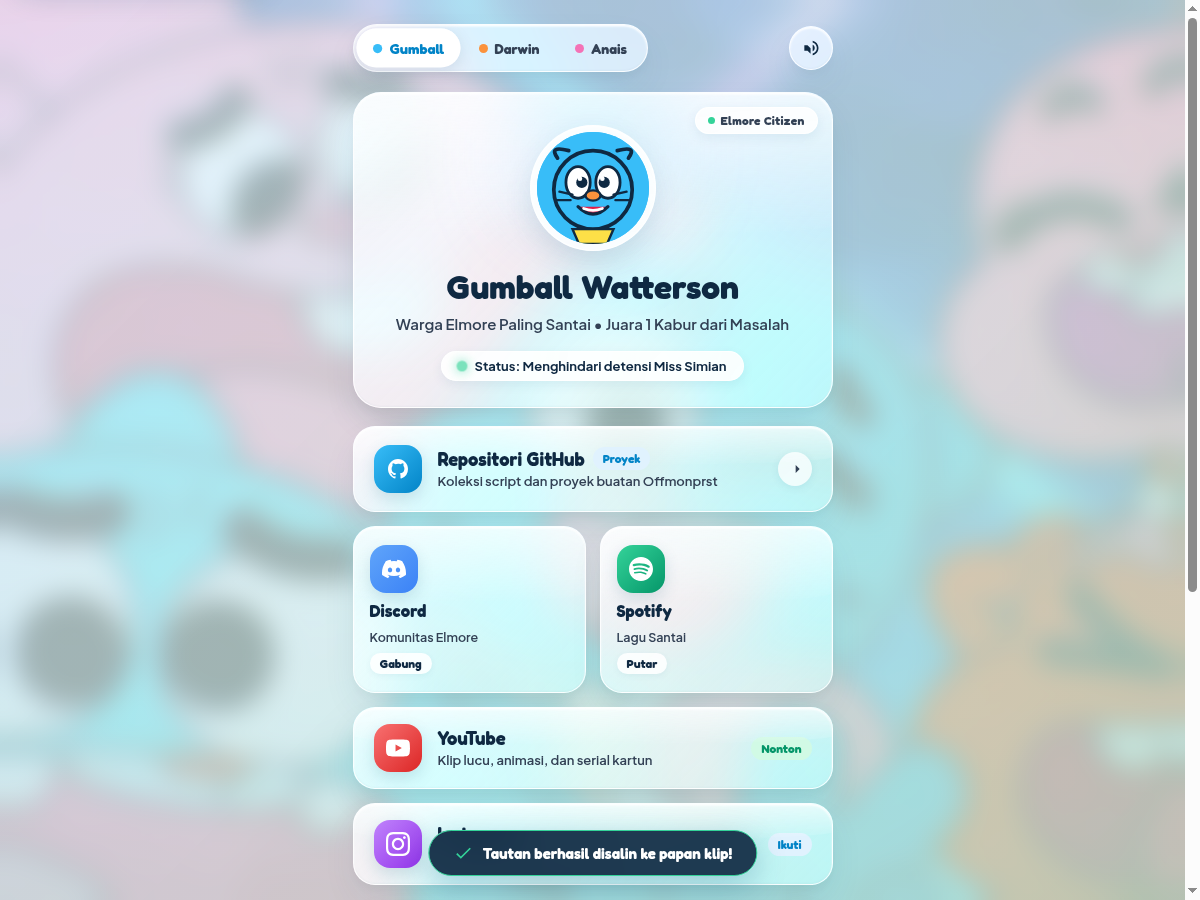
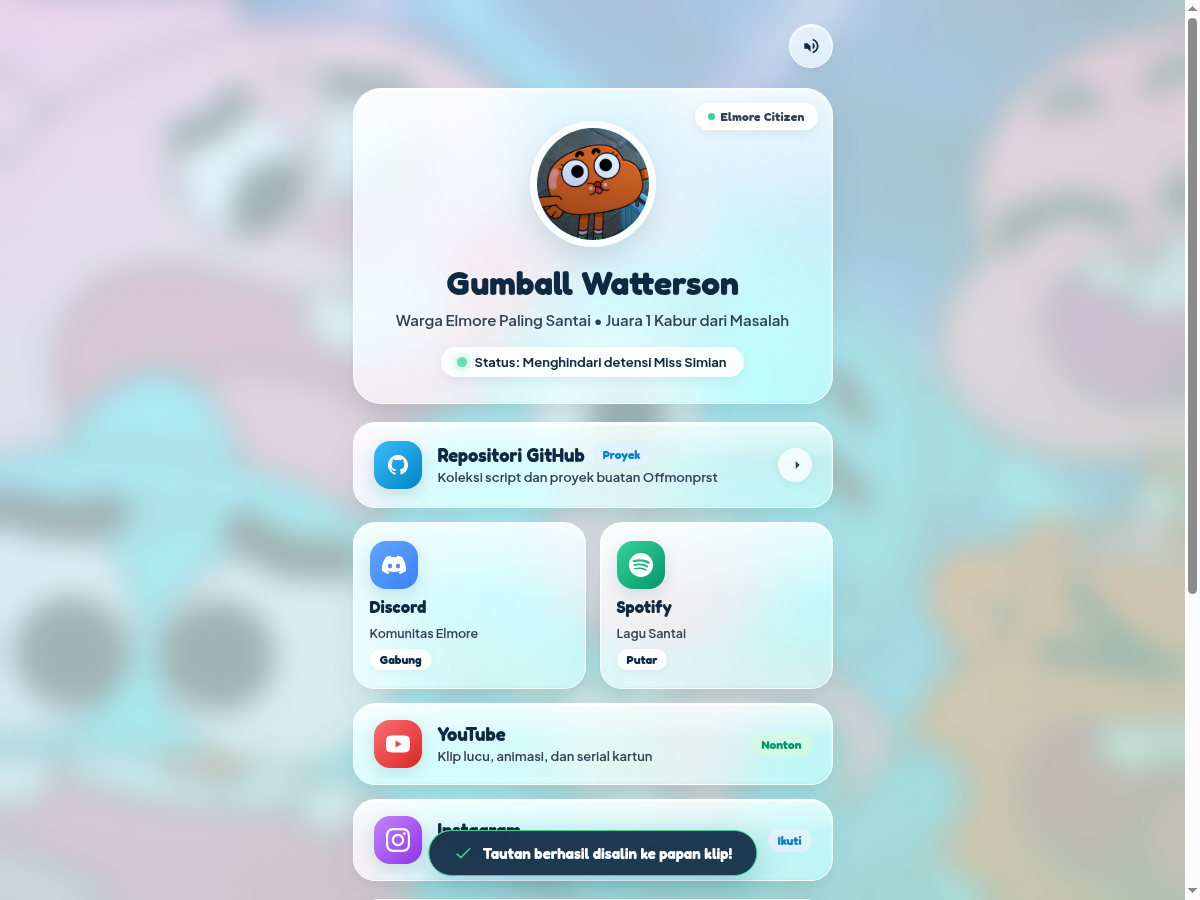
feat: remove character switcher bar and update profile picture from TikTok link

Changed region(s): [[0.2775, 0.0, 0.7092, 1.0]]

diff --git a/index.html b/index.html
@@ -19,21 +19,6 @@
 
   <!-- Top Floating Glass Navigation -->
   <header class="top-liquid-nav" aria-label="Navigasi Pengaturan">
-    <div class="character-glass-dock" role="radiogroup" aria-label="Pilih Karakter Tema">
-      <button type="button" class="liquid-char-btn active" data-char="gumball" aria-checked="true" role="radio" title="Tema Gumball">
-        <span class="char-pill-dot gumball-dot"></span>
-        <span>Gumball</span>
-      </button>
-      <button type="button" class="liquid-char-btn" data-char="darwin" aria-checked="false" role="radio" title="Tema Darwin">
-        <span class="char-pill-dot darwin-dot"></span>
-        <span>Darwin</span>
-      </button>
-      <button type="button" class="liquid-char-btn" data-char="anais" aria-checked="false" role="radio" title="Tema Anais">
-        <span class="char-pill-dot anais-dot"></span>
-        <span>Anais</span>
-      </button>
-    </div>
-
     <button type="button" id="sound-toggle-btn" class="liquid-icon-btn" aria-label="Nyalakan atau matikan efek suara kartun" title="Efek Suara: Nyala">
       <svg viewBox="0 0 24 24" class="liquid-svg" id="sound-svg" aria-hidden="true">
         <path fill="currentColor" d="M14 3.23v2.06c2.89.86 5 3.54 5 6.71s-2.11 5.85-5 6.71v2.06c4.01-.91 7-4.49 7-8.77s-2.99-7.86-7-8.77zm-2.5 9.07L7.83 8.63H4v6.74h3.83l3.67 3.67V12.3zM16.5 12c0-1.77-1.02-3.29-2.5-4.03v8.05c1.48-.73 2.5-2.25 2.5-4.02z"/>
@@ -57,63 +42,7 @@
       <!-- Avatar with Frosted Glass Halo -->
       <div class="avatar-glass-halo">
         <div class="avatar-inner-frame" id="avatar-display">
-          <!-- Gumball SVG Vector -->
-          <svg class="character-svg svg-gumball" viewBox="0 0 120 120" role="img" aria-label="Avatar Gumball Watterson">
-            <rect width="120" height="120" rx="36" fill="#38BDF8"/>
-            <path d="M 22 28 Q 12 14 34 20" stroke="#0F2942" stroke-width="4" fill="#38BDF8" stroke-linecap="round"/>
-            <path d="M 98 28 Q 108 14 86 20" stroke="#0F2942" stroke-width="4" fill="#38BDF8" stroke-linecap="round"/>
-            <circle cx="60" cy="62" r="42" fill="#38BDF8" stroke="#0F2942" stroke-width="4"/>
-            <ellipse cx="44" cy="54" rx="13" ry="17" fill="#FFFFFF" stroke="#0F2942" stroke-width="3"/>
-            <ellipse cx="76" cy="54" rx="13" ry="17" fill="#FFFFFF" stroke="#0F2942" stroke-width="3"/>
-            <circle cx="48" cy="54" r="6" fill="#0F2942"/>
-            <circle cx="72" cy="54" r="6" fill="#0F2942"/>
-            <circle cx="46" cy="50" r="2.5" fill="#FFFFFF"/>
-            <circle cx="70" cy="50" r="2.5" fill="#FFFFFF"/>
-            <ellipse cx="60" cy="68" rx="8" ry="5.5" fill="#FB923C" stroke="#0F2942" stroke-width="2.5"/>
-            <line x1="24" y1="64" x2="38" y2="67" stroke="#0F2942" stroke-width="2.5" stroke-linecap="round"/>
-            <line x1="22" y1="73" x2="36" y2="73" stroke="#0F2942" stroke-width="2.5" stroke-linecap="round"/>
-            <line x1="96" y1="64" x2="82" y2="67" stroke="#0F2942" stroke-width="2.5" stroke-linecap="round"/>
-            <line x1="98" y1="73" x2="84" y2="73" stroke="#0F2942" stroke-width="2.5" stroke-linecap="round"/>
-            <path d="M 44 80 Q 60 96 76 80" stroke="#0F2942" stroke-width="3.5" fill="#E11D48" stroke-linecap="round"/>
-            <path d="M 50 82 Q 60 86 70 82" stroke="#FFFFFF" stroke-width="3" fill="none" stroke-linecap="round"/>
-            <path d="M 38 104 L 82 104 L 75 120 L 45 120 Z" fill="#FDE047" stroke="#0F2942" stroke-width="2.5"/>
-          </svg>
-
-          <!-- Darwin SVG Vector (Hidden initially) -->
-          <svg class="character-svg svg-darwin hidden" viewBox="0 0 120 120" role="img" aria-label="Avatar Darwin Watterson">
-            <rect width="120" height="120" rx="36" fill="#FB923C"/>
-            <circle cx="60" cy="58" r="42" fill="#FB923C" stroke="#0F2942" stroke-width="4"/>
-            <circle cx="44" cy="50" r="16" fill="#FFFFFF" stroke="#0F2942" stroke-width="3"/>
-            <circle cx="76" cy="50" r="16" fill="#FFFFFF" stroke="#0F2942" stroke-width="3"/>
-            <circle cx="46" cy="50" r="7" fill="#0F2942"/>
-            <circle cx="74" cy="50" r="7" fill="#0F2942"/>
-            <circle cx="44" cy="46" r="3" fill="#FFFFFF"/>
-            <circle cx="72" cy="46" r="3" fill="#FFFFFF"/>
-            <ellipse cx="28" cy="66" rx="7" ry="4" fill="#F43F5E"/>
-            <ellipse cx="92" cy="66" rx="7" ry="4" fill="#F43F5E"/>
-            <path d="M 46 68 Q 60 88 74 68" stroke="#0F2942" stroke-width="3.5" fill="#BE123C" stroke-linecap="round"/>
-            <path d="M 52 70 Q 60 74 68 70" stroke="#FFFFFF" stroke-width="2.5" fill="none" stroke-linecap="round"/>
-            <ellipse cx="44" cy="108" rx="16" ry="9" fill="#34D399" stroke="#0F2942" stroke-width="3"/>
-            <ellipse cx="76" cy="108" rx="16" ry="9" fill="#34D399" stroke="#0F2942" stroke-width="3"/>
-          </svg>
-
-          <!-- Anais SVG Vector (Hidden initially) -->
-          <svg class="character-svg svg-anais hidden" viewBox="0 0 120 120" role="img" aria-label="Avatar Anais Watterson">
-            <rect width="120" height="120" rx="36" fill="#F472B6"/>
-            <path d="M 38 34 Q 30 8 44 6 Q 54 8 48 34" fill="#F472B6" stroke="#0F2942" stroke-width="3.5"/>
-            <path d="M 40 28 Q 36 14 43 12 Q 48 14 45 28" fill="#FCE7F3"/>
-            <path d="M 82 34 Q 74 8 88 6 Q 98 8 92 34" fill="#F472B6" stroke="#0F2942" stroke-width="3.5"/>
-            <path d="M 84 28 Q 80 14 87 12 Q 92 14 89 28" fill="#FCE7F3"/>
-            <circle cx="60" cy="64" r="40" fill="#F472B6" stroke="#0F2942" stroke-width="4"/>
-            <ellipse cx="45" cy="58" rx="12" ry="15" fill="#FFFFFF" stroke="#0F2942" stroke-width="3"/>
-            <ellipse cx="75" cy="58" rx="12" ry="15" fill="#FFFFFF" stroke="#0F2942" stroke-width="3"/>
-            <circle cx="48" cy="58" r="5.5" fill="#0F2942"/>
-            <circle cx="72" cy="58" r="5.5" fill="#0F2942"/>
-            <circle cx="46" cy="55" r="2" fill="#FFFFFF"/>
-            <circle cx="70" cy="55" r="2" fill="#FFFFFF"/>
-            <circle cx="60" cy="70" r="4.5" fill="#FB923C" stroke="#0F2942" stroke-width="2"/>
-            <path d="M 50 82 Q 60 92 70 82" stroke="#0F2942" stroke-width="3" fill="none" stroke-linecap="round"/>
-          </svg>
+          <img src="assets/profile.jpg" alt="Foto Profil" class="profile-avatar-img">
         </div>
       </div>
 

diff --git a/app.js b/app.js
@@ -68,11 +68,6 @@ document.addEventListener('DOMContentLoaded', () => {
   let isSoundEnabled = true;
 
   // --- Elements ---
-  const charButtons = document.querySelectorAll('.liquid-char-btn');
-  const characterTitle = document.getElementById('character-name-title');
-  const characterSubtitle = document.getElementById('character-subtitle');
-  const statusText = document.getElementById('status-text');
-  const svgs = document.querySelectorAll('.character-svg');
   const soundToggleBtn = document.getElementById('sound-toggle-btn');
   const soundSvg = document.getElementById('sound-svg');
   const soundIconOnPath = 'M14 3.23v2.06c2.89.86 5 3.54 5 6.71s-2.11 5.85-5 6.71v2.06c4.01-.91 7-4.49 7-8.77s-2.99-7.86-7-8.77zm-2.5 9.07L7.83 8.63H4v6.74h3.83l3.67 3.67V12.3zM16.5 12c0-1.77-1.02-3.29-2.5-4.03v8.05c1.48-.73 2.5-2.25 2.5-4.02z';
@@ -184,42 +179,6 @@ document.addEventListener('DOMContentLoaded', () => {
       }
     });
   }
-
-  // --- Character Switcher Handler ---
-  charButtons.forEach(btn => {
-    btn.addEventListener('click', () => {
-      const charKey = btn.getAttribute('data-char');
-      const data = characters[charKey];
-      if (!data) return;
-
-      // Update Body Theme Attribute
-      document.body.setAttribute('data-character', charKey);
-
-      // Update Buttons Active State
-      charButtons.forEach(b => {
-        b.classList.remove('active');
-        b.setAttribute('aria-checked', 'false');
-      });
-      btn.classList.add('active');
-      btn.setAttribute('aria-checked', 'true');
-
-      // Update Profile Details
-      if (characterTitle) characterTitle.textContent = data.name;
-      if (characterSubtitle) characterSubtitle.textContent = data.subtitle;
-      if (statusText) statusText.textContent = data.status;
-
-      // Update SVG Avatar
-      svgs.forEach(svg => {
-        if (svg.classList.contains(data.avatarClass)) {
-          svg.classList.remove('hidden');
-        } else {
-          svg.classList.add('hidden');
-        }
-      });
-
-      playBoingSound();
-    });
-  });
 
   // --- Quote Generator Handler ---
   if (nextQuoteBtn) {

diff --git a/styles.css b/styles.css
@@ -158,7 +158,7 @@ body {
   width: 100%;
   max-width: 480px;
   display: flex;
-  justify-content: space-between;
+  justify-content: flex-end;
   align-items: center;
   margin-bottom: 20px;
   position: relative;
@@ -366,6 +366,14 @@ body {
   align-items: center;
   justify-content: center;
   transition: transform 0.25s cubic-bezier(0.34, 1.56, 0.64, 1);
+}
+
+.profile-avatar-img {
+  width: 100%;
+  height: 100%;
+  object-fit: cover;
+  border-radius: 50%;
+  display: block;
 }
 
 .avatar-inner-frame:hover {
